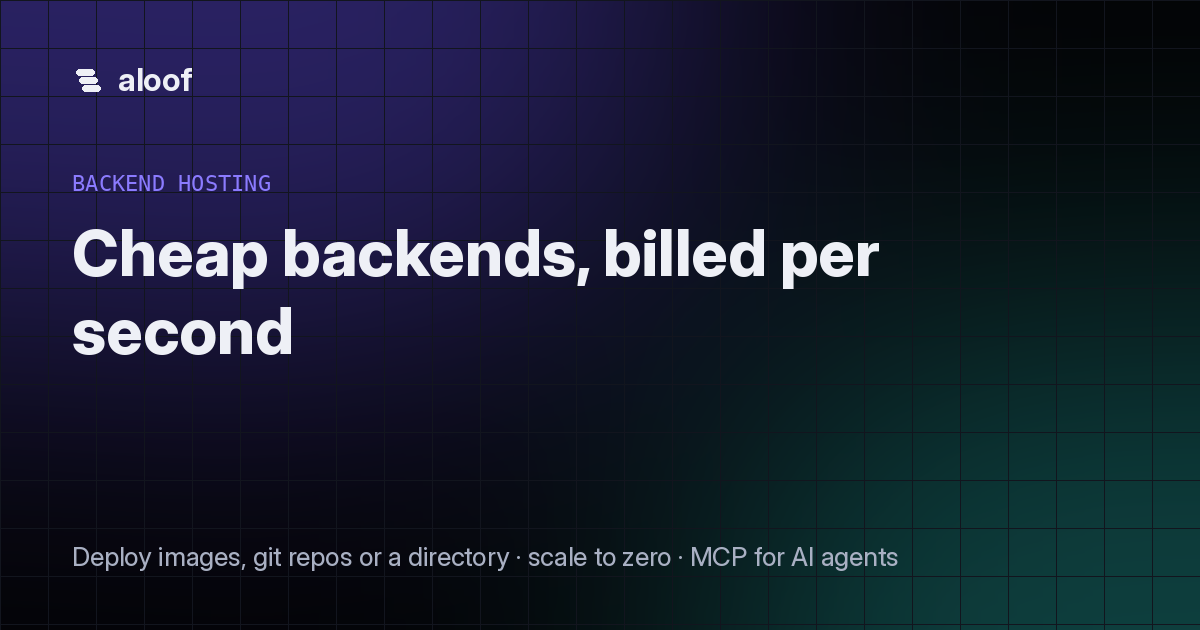
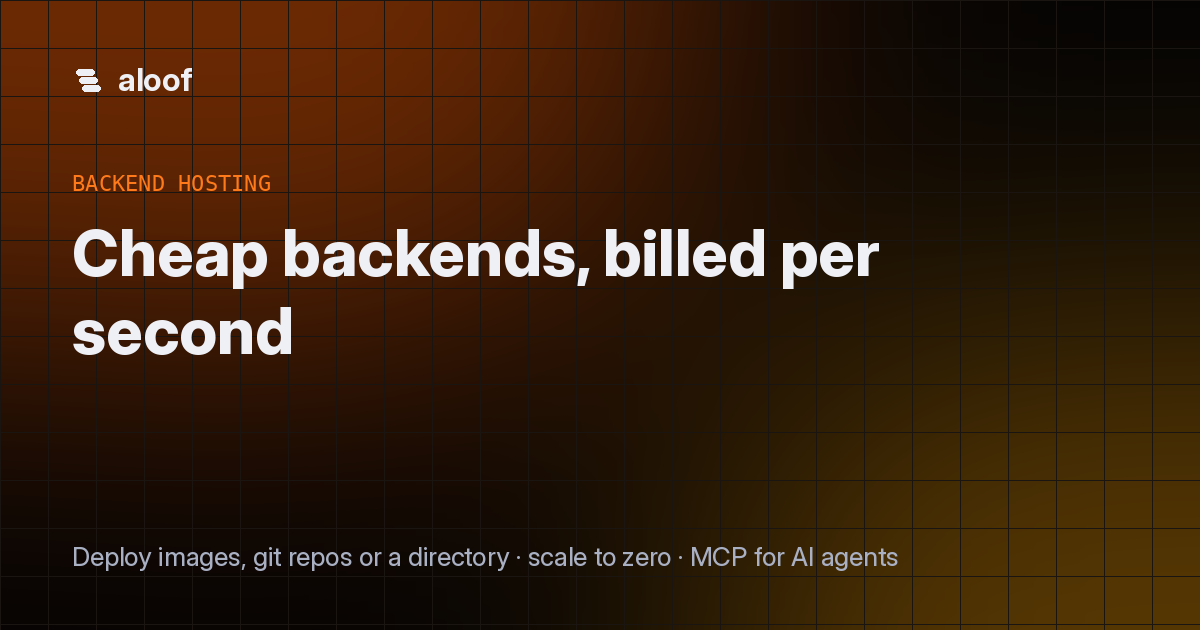
brand: Ember palette baked into aloof.css (orange/amber on warm charcoal, both themes); primary buttons use dark text #140c06 (AA >=5.4:1 on every gradient stop; white failed at 1.8-3.6:1); light accent #c2410c (5.2:1 on white); theme-color/manifest, API docs bar, terminal, OG images re-rendered; no

diff --git a/paas/static/aloof.css b/paas/static/aloof.css
@@ -1,9 +1,9 @@
 /* Aloof design system: dark-first, light via [data-theme=light] or OS preference. No build step. */
-:root{--bg:#07080c;--bg2:#0c0e14;--panel:#10131b;--panel2:#151926;--line:#1f2433;--line2:#2a3044;--fg:#eef0f6;--fg2:#a9b0c3;--fg3:#6f778c;
---acc:#8b7bff;--acc2:#38d6c4;--acc3:#ff7ab6;--ok:#3ddc97;--warn:#f5b84b;--bad:#ff6b6b;--code:#0a0c12;--shadow:0 10px 40px rgba(0,0,0,.45);
+:root{--bg:#0a0807;--bg2:#100d0b;--panel:#16120f;--panel2:#1c1713;--line:#2a221c;--line2:#382d24;--fg:#f6f1ec;--fg2:#bcafa3;--fg3:#998b7e;
+--acc:#ff7a1a;--acc2:#ffb020;--acc3:#ff4d4d;--ok:#4ade80;--warn:#facc15;--bad:#f87171;--code:#0c0a08;--shadow:0 10px 40px rgba(0,0,0,.5);--on-acc:#140c06;
 --r:14px;--mono:ui-monospace,SFMono-Regular,"JetBrains Mono",Menlo,Consolas,monospace;--sans:Inter,ui-sans-serif,system-ui,-apple-system,"Segoe UI",Roboto,sans-serif}
-[data-theme=light]{--bg:#fbfbfd;--bg2:#f4f5f9;--panel:#fff;--panel2:#f6f7fb;--line:#e6e8ef;--line2:#d8dbe6;--fg:#0d1020;--fg2:#4a5168;--fg3:#7a8197;
---acc:#5b4bff;--acc2:#0aa597;--code:#0d1020;--shadow:0 10px 30px rgba(20,24,40,.08)}
+[data-theme=light]{--bg:#fcfaf7;--bg2:#f6f1ea;--panel:#fff;--panel2:#faf5ef;--line:#ece3d8;--line2:#ddd0c0;--fg:#1a120b;--fg2:#5a4a3c;--fg3:#75604e;
+--acc:#c2410c;--acc2:#b45309;--acc3:#dc2626;--code:#1a120b;--shadow:0 10px 30px rgba(40,24,10,.08)}
 *{box-sizing:border-box}html{scroll-behavior:smooth}body{margin:0;font:15px/1.6 var(--sans);color:var(--fg);background:var(--bg);-webkit-font-smoothing:antialiased}
 a{color:var(--acc);text-decoration:none}a:hover{text-decoration:underline}img,svg{display:block}
 :focus-visible{outline:2px solid var(--acc);outline-offset:2px;border-radius:6px}
@@ -18,7 +18,7 @@ a{color:var(--acc);text-decoration:none}a:hover{text-decoration:underline}img,sv
 .sp{flex:1}.navlinks{display:flex;gap:24px}
 .btn{display:inline-flex;align-items:center;gap:8px;border:1px solid transparent;background:var(--fg);color:var(--bg)!important;padding:9px 16px;border-radius:10px;font-weight:600;font-size:14.5px;cursor:pointer;transition:transform .12s,box-shadow .2s,background .2s;font-family:inherit}
 .btn:hover{text-decoration:none;transform:translateY(-1px);box-shadow:0 6px 24px color-mix(in srgb,var(--acc) 35%,transparent)}
-.btn.pri{background:linear-gradient(135deg,var(--acc),color-mix(in srgb,var(--acc) 60%,var(--acc2)));color:#fff!important}
+.btn.pri{background:var(--grad);color:var(--on-acc)!important}
 .btn.ghost{background:transparent;color:var(--fg)!important;border-color:var(--line2)}.btn.ghost:hover{background:var(--panel2)}
 .btn.sm{padding:6px 11px;font-size:13px;border-radius:8px}.btn.danger{background:transparent;border-color:color-mix(in srgb,var(--bad) 50%,transparent);color:var(--bad)!important}
 .icon-btn{background:transparent;border:1px solid var(--line2);color:var(--fg2);border-radius:9px;width:34px;height:34px;display:grid;place-items:center;cursor:pointer}
@@ -30,7 +30,7 @@ a{color:var(--acc);text-decoration:none}a:hover{text-decoration:underline}img,sv
 .hero:after{content:"";position:absolute;inset:0;background-image:linear-gradient(var(--line) 1px,transparent 1px),linear-gradient(90deg,var(--line) 1px,transparent 1px);background-size:56px 56px;mask-image:radial-gradient(ellipse at 50% 0%,#000 30%,transparent 75%);opacity:.45;pointer-events:none}
 .hero .wrap{position:relative;z-index:1;display:grid;grid-template-columns:1.05fr .95fr;gap:56px;align-items:center}
 .hero h1{font-size:clamp(38px,5.4vw,64px);line-height:1.04;letter-spacing:-.035em;margin:18px 0;font-weight:780}
-.grad{background:linear-gradient(100deg,var(--acc) 10%,var(--acc2) 55%,var(--acc3));-webkit-background-clip:text;background-clip:text;color:transparent}
+.grad{background:linear-gradient(100deg,var(--acc) 10%,var(--acc2) 90%);-webkit-background-clip:text;background-clip:text;color:transparent}
 .hero p.lead{font-size:19px;color:var(--fg2);max-width:560px;margin:0 0 28px}
 .cta{display:flex;gap:12px;flex-wrap:wrap}.badge{display:inline-flex;gap:8px;align-items:center;font-size:12.5px;font-weight:600;color:var(--fg2);border:1px solid var(--line2);background:color-mix(in srgb,var(--panel) 70%,transparent);padding:5px 12px;border-radius:999px}
 .dot{width:7px;height:7px;border-radius:50%;background:var(--ok);box-shadow:0 0 10px var(--ok)}
@@ -41,7 +41,7 @@ a{color:var(--acc);text-decoration:none}a:hover{text-decoration:underline}img,sv
 .term .bar{display:flex;gap:7px;align-items:center;padding:12px 14px;border-bottom:1px solid #1d2232;background:#0e111a}.term .bar i{width:11px;height:11px;border-radius:50%;background:#2a3045}
 .term .bar b{margin-left:8px;font:500 12px var(--mono);color:#7d859c}
 .term pre{margin:0;padding:18px 20px;min-height:300px;font:13.5px/1.75 var(--mono);white-space:pre-wrap;background:transparent;border:0}
-.term .p{color:#8b7bff}.term .g{color:#3ddc97}.term .c{color:#38d6c4}.term .m{color:#6f778c}.term .y{color:#f5b84b}
+.term .p{color:#ff7a1a}.term .g{color:#3ddc97}.term .c{color:#38d6c4}.term .m{color:#8a7d70}.term .y{color:#f5b84b}
 .cursor{display:inline-block;width:8px;height:16px;background:#d7dbe8;vertical-align:-3px;animation:blink 1s steps(1) infinite}@keyframes blink{50%{opacity:0}}
 /* sections */
 section.s{padding:88px 0;border-bottom:1px solid var(--line)}.eyebrow{font:600 12.5px var(--mono);letter-spacing:.12em;text-transform:uppercase;color:var(--acc)}
@@ -146,10 +146,10 @@ footer.f .base{display:flex;justify-content:space-between;flex-wrap:wrap;gap:12p
 .helper{display:block;font-size:12.5px;margin-top:6px}
 .nf{padding:110px 0 120px}.nf-code{font-size:120px;font-weight:800;letter-spacing:-.06em;line-height:1;background:linear-gradient(135deg,var(--acc),var(--acc2) 50%,var(--acc3));-webkit-background-clip:text;background-clip:text;color:transparent;margin-bottom:12px}
 /* ---- tokens v7: contrast, spacing, radius, shadow, type, motion ---- */
-:root{--fg3:#8b93a7;--grad:linear-gradient(135deg,var(--acc),color-mix(in srgb,var(--acc) 55%,var(--acc3)));--s1:4px;--s2:8px;--s3:12px;--s4:16px;--s5:24px;--s6:32px;
+:root{--grad:linear-gradient(135deg,#ff6a00,#ffb020);--s1:4px;--s2:8px;--s3:12px;--s4:16px;--s5:24px;--s6:32px;
 --r-sm:8px;--r-md:10px;--r-lg:14px;--sh-1:0 1px 2px rgba(0,0,0,.25);--sh-2:0 8px 28px rgba(0,0,0,.35);--ease:cubic-bezier(.2,.8,.2,1);--t-xs:12px;--t-sm:13px;--t-md:14px}
-[data-theme=light]{--fg3:#5f667b;--sh-1:0 1px 2px rgba(16,24,40,.06);--sh-2:0 10px 30px rgba(16,24,40,.10)}
-.btn.pri,.btn.pri:hover{background:var(--grad);color:#fff!important;border-color:transparent}
+[data-theme=light]{--grad:linear-gradient(135deg,#ea580c,#d97706);--sh-1:0 1px 2px rgba(16,24,40,.06);--sh-2:0 10px 30px rgba(16,24,40,.10)}
+.btn.pri,.btn.pri:hover{background:var(--grad);color:var(--on-acc)!important;border-color:transparent;font-weight:650}
 /* ---- console ---- */
 .app .side{gap:2px;padding:16px 12px}
 .side .grp{font-size:11px;text-transform:uppercase;letter-spacing:.08em;color:var(--fg3);padding:14px 10px 6px;font-weight:600}
@@ -158,7 +158,7 @@ footer.f .base{display:flex;justify-content:space-between;flex-wrap:wrap;gap:12p
 .side a.nav.on:before{content:"";position:absolute;left:-12px;top:8px;bottom:8px;width:3px;border-radius:0 3px 3px 0;background:var(--grad)}
 .side a.nav.on svg{opacity:1;color:var(--acc)}
 .side .who .em{color:var(--fg2);font-weight:550;display:flex;gap:8px;align-items:center;word-break:break-all}
-.avatar{flex:none;width:26px;height:26px;border-radius:50%;background:var(--grad);color:#fff;display:grid;place-items:center;font-weight:700;font-size:12px;text-transform:uppercase}
+.avatar{flex:none;width:26px;height:26px;border-radius:50%;background:var(--grad);color:var(--on-acc);display:grid;place-items:center;font-weight:700;font-size:12px;text-transform:uppercase}
 .seg{display:inline-flex;background:var(--panel2);border:1px solid var(--line);border-radius:var(--r-md);padding:2px;gap:2px}
 .seg button{border:0;background:none;color:var(--fg3);font:600 12px var(--sans);padding:5px 9px;border-radius:7px;cursor:pointer;transition:all .15s}
 .seg button[aria-pressed=true]{background:var(--panel);color:var(--fg);box-shadow:var(--sh-1)}
@@ -219,5 +219,6 @@ a.logo i{width:28px;height:28px;flex:none}
 .f a.logo{font-size:21px}
 .side a.logo{font-size:20px;gap:9px;padding:6px 10px 20px}.side a.logo i{width:26px;height:26px}
 .auth a.logo{font-size:24px;gap:11px}.auth a.logo i{width:32px;height:32px}
-.abar a.logo{color:#eef0f6!important;font-size:19px}.abar a.logo i{width:26px;height:26px}
+.abar a.logo{color:#f6f1ec!important;font-size:19px}.abar a.logo i{width:26px;height:26px}
 @media(max-width:640px){a.logo,.top a.logo{font-size:19px;gap:9px}a.logo i{width:26px;height:26px}}
+.tbl{color:var(--fg)}.tbl td b,.tbl td a b{color:var(--fg)}

diff --git a/dashboard/index.html b/dashboard/index.html
@@ -1,5 +1,5 @@
 <!doctype html><html lang=en><head><meta charset="utf-8"><meta name=viewport content="width=device-width,initial-scale=1"><title>Dashboard · {{BRAND}}</title><meta name=description content="Manage your {{BRAND}} apps, volumes, Postgres, API keys and billing."><meta name=robots content="noindex, nofollow">
-<link rel=icon href="/favicon.ico?v=3" sizes="32x32"><link rel=icon href="/icon.svg?v=3" type="image/svg+xml"><link rel=icon type="image/png" sizes="32x32" href="/favicon-32x32.png?v=3"><link rel=icon type="image/png" sizes="16x16" href="/favicon-16x16.png?v=3"><link rel=apple-touch-icon href="/apple-touch-icon.png?v=3"><link rel=manifest href="/site.webmanifest?v=3"><link rel=stylesheet href="/static/aloof.css?v=10">
+<link rel=icon href="/favicon.ico?v=3" sizes="32x32"><link rel=icon href="/icon.svg?v=3" type="image/svg+xml"><link rel=icon type="image/png" sizes="32x32" href="/favicon-32x32.png?v=3"><link rel=icon type="image/png" sizes="16x16" href="/favicon-16x16.png?v=3"><link rel=apple-touch-icon href="/apple-touch-icon.png?v=3"><link rel=manifest href="/site.webmanifest?v=3"><link rel=stylesheet href="/static/aloof.css?v=11">
 <script>(function(){var t=localStorage.getItem('theme');if(t)document.documentElement.dataset.theme=t})();function setTheme(n){var d=document.documentElement;d.dataset.theme=n;localStorage.setItem('theme',n);document.querySelectorAll('.seg [data-th]').forEach(function(b){b.setAttribute('aria-pressed',b.dataset.th==n)})}function toggleTheme(){setTheme((document.documentElement.dataset.theme||'dark')=='dark'?'light':'dark')}</script></head><body>
 <div class=app><aside class=side aria-label="Dashboard navigation"><a class=logo href="/"><i></i>{{BRAND}}</a>
 <div class=grp>Project</div><a class="nav on" data-t=apps href="#" aria-current=page><svg viewBox="0 0 24 24" fill=none stroke=currentColor stroke-width=1.8 aria-hidden=true><rect x=3 y=3 width=7 height=7 rx=1.5 /><rect x=14 y=3 width=7 height=7 rx=1.5 /><rect x=3 y=14 width=7 height=7 rx=1.5 /><rect x=14 y=14 width=7 height=7 rx=1.5 /></svg>Apps</a>

diff --git a/dashboard/admin.html b/dashboard/admin.html
@@ -1,5 +1,5 @@
 <!doctype html><html lang=en><head><meta charset="utf-8"><meta name=viewport content="width=device-width,initial-scale=1"><meta name=robots content="noindex,nofollow"><title>Owner dashboard · Aloof</title>
-<link rel=icon href="/favicon.ico?v=3" sizes="32x32"><link rel=icon href="/icon.svg?v=3" type="image/svg+xml"><link rel=icon type="image/png" sizes="32x32" href="/favicon-32x32.png?v=3"><link rel=icon type="image/png" sizes="16x16" href="/favicon-16x16.png?v=3"><link rel=apple-touch-icon href="/apple-touch-icon.png?v=3"><link rel=manifest href="/site.webmanifest?v=3"><link rel=stylesheet href="/static/aloof.css?v=10">
+<link rel=icon href="/favicon.ico?v=3" sizes="32x32"><link rel=icon href="/icon.svg?v=3" type="image/svg+xml"><link rel=icon type="image/png" sizes="32x32" href="/favicon-32x32.png?v=3"><link rel=icon type="image/png" sizes="16x16" href="/favicon-16x16.png?v=3"><link rel=apple-touch-icon href="/apple-touch-icon.png?v=3"><link rel=manifest href="/site.webmanifest?v=3"><link rel=stylesheet href="/static/aloof.css?v=11">
 <script>(function(){var t=localStorage.getItem('theme');if(t)document.documentElement.dataset.theme=t})();function toggleTheme(){var d=document.documentElement,c=d.dataset.theme||'dark',n=c=='dark'?'light':'dark';d.dataset.theme=n;localStorage.setItem('theme',n)}</script>
 <style>
 .adm{padding:28px 0 64px}.adm h1{font-size:28px;letter-spacing:-.025em;margin:0}.adm h2{font-size:15px;letter-spacing:.02em;margin:34px 0 12px;color:var(--fg2);text-transform:uppercase;font-family:var(--mono)}

diff --git a/paas/static/palettes/ember.css b/paas/static/palettes/ember.css
@@ -1,0 +1,5 @@
+/* Ember: electric orange + amber on warm charcoal. Load after aloof.css to switch. */
+:root{--bg:#0a0807;--bg2:#100d0b;--panel:#16120f;--panel2:#1c1713;--line:#2a221c;--line2:#382d24;--fg:#f6f1ec;--fg2:#bcafa3;--fg3:#998b7e;
+--acc:#ff7a1a;--acc2:#ffb020;--acc3:#ff4d4d;--grad:linear-gradient(135deg,#ff6a00,#ffb020);--ok:#4ade80;--warn:#facc15;--bad:#f87171;--code:#0c0a08}
+[data-theme=light]{--bg:#fcfaf7;--bg2:#f6f1ea;--panel:#fff;--panel2:#faf5ef;--line:#ece3d8;--line2:#ddd0c0;--fg:#1a120b;--fg2:#5a4a3c;--fg3:#75604e;
+--acc:#e85d00;--acc2:#c98a00;--acc3:#dc2626;--grad:linear-gradient(135deg,#ea580c,#d97706);--code:#1a120b}

diff --git a/paas/static/palettes/evergreen.css b/paas/static/palettes/evergreen.css
@@ -1,0 +1,5 @@
+/* Evergreen: emerald + teal on graphite. Load after aloof.css to switch. */
+:root{--bg:#060908;--bg2:#0a0f0d;--panel:#0e1513;--panel2:#131c19;--line:#1c2925;--line2:#27372f;--fg:#ecf3ef;--fg2:#a6b8af;--fg3:#82958c;
+--acc:#34d399;--acc2:#2dd4bf;--acc3:#a3e635;--grad:linear-gradient(135deg,#34d399,#14b8a6);--ok:#4ade80;--warn:#fbbf24;--bad:#f87171;--code:#070b0a}
+[data-theme=light]{--bg:#f7faf8;--bg2:#eef4f1;--panel:#fff;--panel2:#f3f8f5;--line:#dfe9e4;--line2:#cbdad2;--fg:#0b1612;--fg2:#3f544b;--fg3:#5a6e65;
+--acc:#059669;--acc2:#0d9488;--acc3:#65a30d;--grad:linear-gradient(135deg,#059669,#0d9488);--code:#0b1612}

diff --git a/paas/static/palettes/voltage.css b/paas/static/palettes/voltage.css
@@ -1,0 +1,5 @@
+/* Voltage: cyan to lime on blue-black. Load after aloof.css to switch. */
+:root{--bg:#05080b;--bg2:#091017;--panel:#0d151d;--panel2:#121c26;--line:#1a2734;--line2:#253646;--fg:#eaf3f8;--fg2:#a3b5c2;--fg3:#7f93a2;
+--acc:#22d3ee;--acc2:#a3e635;--acc3:#38bdf8;--grad:linear-gradient(135deg,#22d3ee,#a3e635);--ok:#4ade80;--warn:#fbbf24;--bad:#fb7185;--code:#060a0e}
+[data-theme=light]{--bg:#f6fafc;--bg2:#edf4f8;--panel:#fff;--panel2:#f2f7fa;--line:#dde8ee;--line2:#c8d8e2;--fg:#08131b;--fg2:#3b5060;--fg3:#566b7a;
+--acc:#0891b2;--acc2:#65a30d;--acc3:#0284c7;--grad:linear-gradient(135deg,#0891b2,#65a30d);--code:#08131b}

diff --git a/paas/site.py b/paas/site.py
@@ -34,11 +34,11 @@ CUR = {"path": "/", "og": "default", "type": "website"}
 def head(title, desc):
     t, d = html.escape(title), html.escape(desc); u = SITE + CUR["path"]; og = f"{SITE}/static/og/{CUR['og']}.png"
     return f"""<!doctype html><html lang=en><head><meta charset=utf-8><meta name=viewport content="width=device-width,initial-scale=1">
-<title>{t}</title><meta name=description content="{d}"><meta name=theme-color content="#07080c"><link rel=canonical href="{u}">
+<title>{t}</title><meta name=description content="{d}"><meta name=theme-color content="#0a0807"><link rel=canonical href="{u}">
 <meta property="og:type" content="{CUR['type']}"><meta property="og:site_name" content="Aloof"><meta property="og:title" content="{t}"><meta property="og:description" content="{d}"><meta property="og:url" content="{u}"><meta property="og:image" content="{og}"><meta property="og:image:width" content="1200"><meta property="og:image:height" content="630">
 <meta name="twitter:card" content="summary_large_image"><meta name="twitter:title" content="{t}"><meta name="twitter:description" content="{d}"><meta name="twitter:image" content="{og}">
 <link rel=alternate type="application/rss+xml" title="Aloof blog" href="/rss.xml">
-<link rel=icon href="/favicon.ico?v=3" sizes="32x32"><link rel=icon href="/icon.svg?v=3" type="image/svg+xml"><link rel=icon type="image/png" sizes="32x32" href="/favicon-32x32.png?v=3"><link rel=icon type="image/png" sizes="16x16" href="/favicon-16x16.png?v=3"><link rel=apple-touch-icon href="/apple-touch-icon.png?v=3"><link rel=manifest href="/site.webmanifest?v=3"><link rel=stylesheet href="/static/aloof.css?v=10">{THEME_JS}</head>"""
+<link rel=icon href="/favicon.ico?v=3" sizes="32x32"><link rel=icon href="/icon.svg?v=3" type="image/svg+xml"><link rel=icon type="image/png" sizes="32x32" href="/favicon-32x32.png?v=3"><link rel=icon type="image/png" sizes="16x16" href="/favicon-16x16.png?v=3"><link rel=apple-touch-icon href="/apple-touch-icon.png?v=3"><link rel=manifest href="/site.webmanifest?v=3"><link rel=stylesheet href="/static/aloof.css?v=11">{THEME_JS}</head>"""
 def nav(brand):
     return f"""<a class=skip href="#main">Skip to content</a><header class=top><div class=wrap><a class=logo href="/" aria-label="{brand} home"><i></i>{brand}</a>
 <nav class=navlinks id=nl aria-label=Primary><a href="/#features">Product</a><a href="/pricing">Pricing</a><a href="/docs">Docs</a><a href="/guides">Guides</a><a href="/blog">Blog</a><a href="/changelog">Changelog</a></nav>

diff --git a/paas/api.py b/paas/api.py
@@ -529,9 +529,9 @@ def api_docs():
     return f"""<!doctype html><html lang=en><head><meta charset=utf-8><meta name=viewport content="width=device-width,initial-scale=1"><title>API reference · {BRAND}</title>
 <meta name=description content="Interactive reference for the {BRAND} REST API: apps, deploys, volumes, Postgres, domains, billing and keys. Authenticate with Authorization: Bearer.">
 <link rel=icon href="/favicon.ico?v=3" sizes="32x32"><link rel=icon href="/icon.svg?v=3" type="image/svg+xml"><link rel=icon type="image/png" sizes="32x32" href="/favicon-32x32.png?v=3"><link rel=icon type="image/png" sizes="16x16" href="/favicon-16x16.png?v=3"><link rel=apple-touch-icon href="/apple-touch-icon.png?v=3">
-<link rel=stylesheet href="/static/swagger/swagger-ui.css?v={SWAGGER_V}" integrity="{SWAGGER_SRI['css']}" crossorigin=anonymous><link rel=stylesheet href="/static/aloof.css?v=10">
-<style>body{{margin:0;background:#fff}}.topbar{{display:none}}.abar{{display:flex;align-items:center;gap:14px;padding:14px 24px;background:#0b0c10;color:#eef0f6}}.abar .logo{{color:#eef0f6!important}}.abar a{{color:#a9b0c3}}.abar .sp{{flex:1}}</style></head>
-<body><div class=abar><a class=logo href="/"><i></i>{BRAND}</a><span style="color:#8b93a7">API reference</span><span class=sp></span><a href="/docs/api">Guide</a><a href="/dashboard">Dashboard</a></div><div id=swagger-ui></div>
+<link rel=stylesheet href="/static/swagger/swagger-ui.css?v={SWAGGER_V}" integrity="{SWAGGER_SRI['css']}" crossorigin=anonymous><link rel=stylesheet href="/static/aloof.css?v=11">
+<style>body{{margin:0;background:#fff}}.topbar{{display:none}}.abar{{display:flex;align-items:center;gap:14px;padding:14px 24px;background:#0a0807;color:#f6f1ec}}.abar .logo{{color:#f6f1ec!important}}.abar a{{color:#a9b0c3}}.abar .sp{{flex:1}}</style></head>
+<body><div class=abar><a class=logo href="/"><i></i>{BRAND}</a><span style="color:#998b7e">API reference</span><span class=sp></span><a href="/docs/api">Guide</a><a href="/dashboard">Dashboard</a></div><div id=swagger-ui></div>
 <script src="/static/swagger/swagger-ui-bundle.js?v={SWAGGER_V}" integrity="{SWAGGER_SRI['js']}" crossorigin=anonymous></script>
 <script>SwaggerUIBundle({{url:"/api/openapi.json",dom_id:"#swagger-ui",deepLinking:true,persistAuthorization:false}})</script></body></html>"""
 @app.get("/dashboard", response_class=HTMLResponse)

diff --git a/scripts/gen_og.py b/scripts/gen_og.py
@@ -9,15 +9,15 @@ def font(sz, w=700):
     except Exception: pass
     return f
 def card(name, eyebrow, title, sub):
-    W, H = 1200, 630; im = Image.new("RGB", (W, H), (7, 8, 12))
+    W, H = 1200, 630; im = Image.new("RGB", (W, H), (10, 8, 7))
     glow = Image.new("RGB", (W, H), (0, 0, 0)); g = ImageDraw.Draw(glow)
-    g.ellipse((-200, -260, 700, 360), fill=(70, 55, 170)); g.ellipse((700, 300, 1400, 900), fill=(20, 110, 105))
+    g.ellipse((-200, -260, 700, 360), fill=(190, 70, 0)); g.ellipse((700, 300, 1400, 900), fill=(150, 95, 0))
     im = Image.blend(im, glow.filter(ImageFilter.GaussianBlur(160)), 0.55); d = ImageDraw.Draw(im)
-    for x in range(0, W, 48): d.line((x, 0, x, H), fill=(18, 21, 30))
-    for y in range(0, H, 48): d.line((0, y, W, y), fill=(18, 21, 30))
+    for x in range(0, W, 48): d.line((x, 0, x, H), fill=(26, 21, 17))
+    for y in range(0, H, 48): d.line((0, y, W, y), fill=(26, 21, 17))
     for x, y in ((4, 5), (7, 13.2), (10, 21.4)): d.rounded_rectangle((72 + x, 64 + y, 72 + x + 18, 64 + y + 5.6), 2.8, fill=(238, 240, 246))
     d.text((118, 60), "aloof", font=font(32, 680), fill=(238, 240, 246))
-    d.text((72, 170), eyebrow.upper(), font=ImageFont.truetype(M, 22), fill=(139, 123, 255))
+    d.text((72, 170), eyebrow.upper(), font=ImageFont.truetype(M, 22), fill=(255, 122, 26))
     words, lines, cur = title.split(), [], ""
     tf = font(64 if len(title) < 48 else 54, 780)
     for w in words:

diff --git a/paas/static/palettes/README.md b/paas/static/palettes/README.md
@@ -1,0 +1,5 @@
+Alternative palettes (no violet). To switch, add after aloof.css in site.head(), dashboard and admin:
+  <link rel=stylesheet href="/static/palettes/<name>.css?v=1">
+(and add a /static/palettes route), or paste the two blocks over the :root / [data-theme=light] vars in aloof.css.
+Tokens: --bg --bg2 --panel --panel2 --line --line2 --fg --fg2 --fg3 --acc --acc2 --acc3 --grad --ok --warn --bad --code
+Note: .btn.pri uses --grad; on Ember/Voltage dark, consider color:#0a0807 for button text (light accents).
